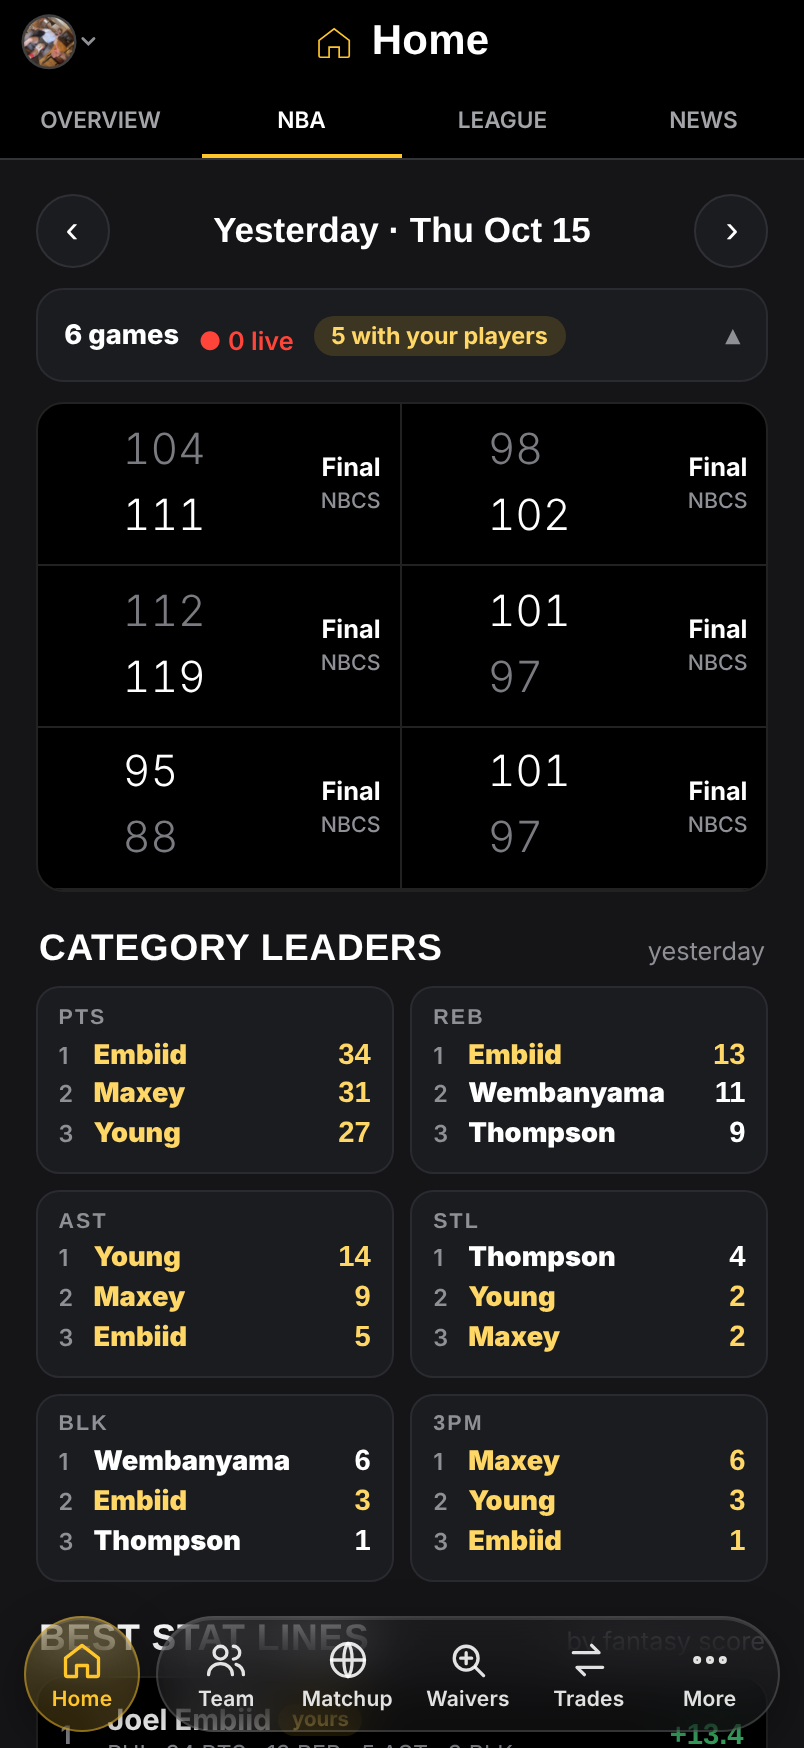
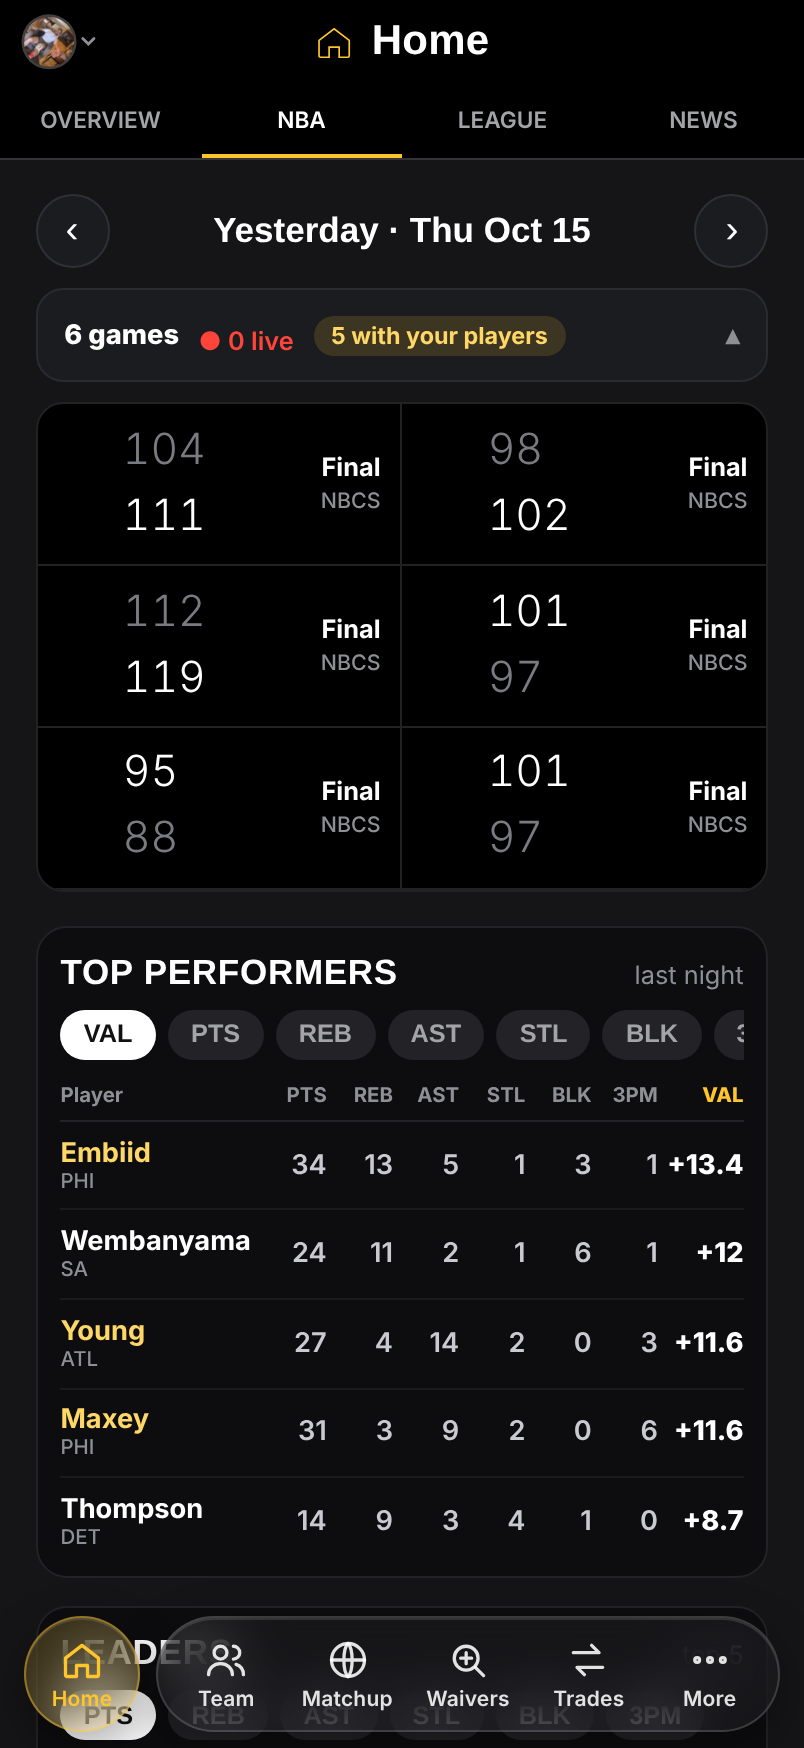
NBA tab: Top performers table (all stats, filter by category) + Leaders top 5 with pills
Claude-Session: https://claude.ai/code/session_01Bze7554zYTgci3mfzKEDgc

diff --git a/classic.html b/classic.html
@@ -1233,6 +1233,25 @@ html body .hdstk.fphd .fphtabs button{font-size:13.5px!important}
 #fpsv .srec{background:rgba(0,0,0,.3);border-radius:14px;padding:9px 11px;margin-bottom:10px}
 #fpsv .sno{color:rgba(255,255,255,.7);font-size:13px}
 .fptoast{position:fixed;left:50%;bottom:120px;transform:translateX(-50%);background:#222;color:#fff;padding:10px 16px;border-radius:999px;font:600 13px system-ui;z-index:9999}
+#fphc .nhcard{background:#0d0d0f;border:1px solid #232327;border-radius:16px;padding:12px 12px 6px;margin-bottom:14px}
+#fphc .nhh{display:flex;align-items:baseline;justify-content:space-between;margin-bottom:8px}#fphc .nhh b{font:800 18px "Roboto Condensed",sans-serif;text-transform:uppercase;letter-spacing:.02em}#fphc .nhh span{color:#8e9096;font-size:13px}
+#fphc .nhpl{display:flex;gap:6px;overflow-x:auto;scrollbar-width:none;margin-bottom:8px}#fphc .nhpl::-webkit-scrollbar{display:none}
+#fphc .nhpl button{flex:none;border:0;border-radius:999px;padding:6px 12px;background:#232327;color:#a3a4a8;font:800 13px "Roboto Condensed",sans-serif;cursor:pointer}
+#fphc .nhpl button.on{background:#fff;color:#111}
+#fphc .nht .hr,#fphc .nht .tr{display:grid;grid-template-columns:minmax(0,1fr) repeat(6,28px) 50px;align-items:center;column-gap:4px;font-variant-numeric:tabular-nums}
+#fphc .nht .hr{font:700 10.5px system-ui;color:#8e9096;padding:4px 0 6px;border-bottom:1px solid #232327}
+#fphc .nht .hr span:not(:first-child),#fphc .nht .tr span:not(:first-child){text-align:right}
+#fphc .nht .tr{padding:8px 0;border-bottom:1px solid #1b1b1e;font:600 14px system-ui;color:#c9cacf}#fphc .nht .tr:last-child{border-bottom:0}
+#fphc .nht .pn{font-weight:700;color:#fff;white-space:nowrap;overflow:hidden;text-overflow:ellipsis}#fphc .nht .pn small{display:block;font:500 10.5px system-ui;color:#8e9096}
+#fphc .nht .tr.me .pn{color:#ffd766}#fphc .nht .tr.op .pn{color:#9fd0ff}
+#fphc .nht span.on{color:#fff;font-weight:800}#fphc .nht .hr span.on{color:#ffc62b}
+#fphc .nht .vl{color:#3fbf6f;font-weight:800}
+#fphc .nhlr{display:flex;align-items:center;gap:10px;padding:9px 0;border-top:1px solid #1b1b1e}
+#fphc .nhlr .k{width:14px;color:#8e9096;font:700 14px system-ui}
+#fphc .nhlr img,#fphc .nhlr i{width:32px;height:32px;border-radius:50%;object-fit:cover;background:#2a2b30;flex:none}
+#fphc .nhlr b{font:700 16px system-ui;flex:1;min-width:0;white-space:nowrap;overflow:hidden;text-overflow:ellipsis}#fphc .nhlr small{color:#8e9096;font-size:12px}
+#fphc .nhlr .v{font:900 20px "Roboto Condensed",sans-serif;min-width:36px;text-align:right}
+#fphc .nhlr.me b{color:#ffd766}#fphc .nhlr.op b{color:#9fd0ff}
 </style>
 <div class="stage">
  <aside class="side"><h1>Fantasy Plus <span>for iPhone</span></h1><p>Design of the iPhone app. Tap around, it all works: the tabs, the players, the trade builder.</p><ul><li><b>Home</b>: score, last night, this week's review, category ranks, waivers. Tap the score for the full game.</li><li><b>Team</b>: roster and player cards</li><li><b>Matchup</b>: ESPN-style category table with our ball logic</li><li><b>More</b>: rankings and settings</li><li><b>Trades</b>: your market and the builder</li></ul><p>Numbers are a snapshot of your Anti-Quemo league (preseason projections). Photos show as initials here; the app uses real headshots.</p><p>On your phone, open this link directly and it fills the screen.</p></aside>
@@ -2154,10 +2173,15 @@ async function scores(box_){const B=box_;clearInterval(timer);
  let all=[];await Promise.all(done.map(async r=>{try{const x=await box(r.id);all.push(...x)}catch(e){}}));if(!document.body.contains(B))return;
  if(!all.length){L.innerHTML='<p class="fhnote">Box scores aren\'t available yet.</p>';return}
  const cats=["PTS","REB","AST","STL","BLK","3PM"],cls=p=>O[p.id]===1?"me":O[p.id]===2?"op":"";
- L.innerHTML=`<div class="fhsec"><h3>Category leaders</h3><span>${DOFF===0?"tonight so far":dname(DOFF).split(" · ")[0].toLowerCase()}</span></div><div class="nhcats">${cats.map(c=>{const t=[...all].sort((a,b)=>b[c]-a[c]).slice(0,3);return `<div class="nhc"><div class="cap">${c}</div>${t.map((p,i)=>`<div class="r ${cls(p)}"><span class="k">${i+1}</span><b>${esc(last(p.n))}</b><span class="v">${p[c]}</span></div>`).join("")}</div>`}).join("")}</div>`;
- const best=[...all].sort((a,b)=>b.fv-a.fv).slice(0,8);
- BB.innerHTML=`<div class="fhsec"><h3>Best stat lines</h3><span>by fantasy score</span></div><div class="nhbl">${best.map((p,i)=>{const parts=[`${p.PTS} PTS`,p.REB>=5?`${p.REB} REB`:"",p.AST>=4?`${p.AST} AST`:"",p.STL>=2?`${p.STL} STL`:"",p.BLK>=2?`${p.BLK} BLK`:"",p["3PM"]>=3?`${p["3PM"]} 3PM`:""].filter(Boolean).join(" · ");const tg=O[p.id]===1?'<span class="tg me">yours</span>':O[p.id]===2?`<span class="tg op">${esc((HDX.D.opp||"opp").split(" ")[0])}</span>`:"";
-  return `<div class="nhb"><span class="k">${i+1}</span>${ph(p.id)?`<img src="${ph(p.id)}" alt="" onerror="this.remove()">`:`<i></i>`}<div class="m"><b>${esc(p.n)} ${tg}</b><small>${esc(p.t)} · ${parts}</small></div><span class="fv">+${p.fv}</span></div>`}).join("")}</div>`}
+ const pills=(cur,attr)=>`<div class="nhpl">${["VAL",...cats].map(c=>`<button ${attr}="${c}" class="${c===cur?"on":""}">${c}</button>`).join("")}</div>`;
+ const key=c=>c==="VAL"?"fv":c;
+ const drawTop=()=>{const c=window.__nhTop||"VAL",k=key(c),T=[...all].sort((a,b)=>b[k]-a[k]||b.fv-a.fv).slice(0,10);
+  BB.innerHTML=`<div class="nhcard"><div class="nhh"><b>Top performers</b><span>${DOFF===0?"tonight":"last night"}</span></div>${pills(c,"data-tp")}<div class="nht"><div class="hr"><span>Player</span>${cats.map(x=>`<span class="${x===c?"on":""}">${x}</span>`).join("")}<span class="${c==="VAL"?"on":""}">VAL</span></div>${T.map(p=>`<div class="tr ${cls(p)}"><span class="pn">${esc(last(p.n))}<small>${esc(p.t)}</small></span>${cats.map(x=>`<span class="${x===c?"on":""}">${p[x]}</span>`).join("")}<span class="vl ${c==="VAL"?"on":""}">+${p.fv}</span></div>`).join("")}</div></div>`;
+  BB.querySelectorAll("[data-tp]").forEach(b=>b.onclick=e=>{e.stopPropagation();window.__nhTop=b.dataset.tp;drawTop()})};
+ const drawLead=()=>{const c=window.__nhLd||"PTS",T=[...all].sort((a,b)=>b[c]-a[c]).slice(0,5);
+  L.innerHTML=`<div class="nhcard"><div class="nhh"><b>Leaders</b><span>top 5</span></div><div class="nhpl">${cats.map(x=>`<button data-ld="${x}" class="${x===c?"on":""}">${x}</button>`).join("")}</div>${T.map((p,i)=>`<div class="nhlr ${cls(p)}"><span class="k">${i+1}</span>${ph(p.id)?`<img src="${ph(p.id)}" alt="" onerror="this.remove()">`:`<i></i>`}<b>${esc(p.n)}</b><small>${esc(p.t)}</small><span class="v">${p[c]}</span></div>`).join("")}</div>`;
+  L.querySelectorAll("[data-ld]").forEach(b=>b.onclick=e=>{e.stopPropagation();window.__nhLd=b.dataset.ld;drawLead()})};
+ B.insertBefore(BB,L);drawTop();drawLead()}
 // ---------- League ----------
 function league(box){const D=HDX.D,st=[...(D.stand||[])].sort((a,b)=>a.place-b.place),pw=[...(D.power||[])].sort((a,b)=>a.place-b.place),od=D.odds||{},sp=D.spots||4;
  box.innerHTML=`<div class="fhsec"><h3>Standings</h3><span>top ${sp} make the playoffs</span></div><div class="fhcard"><div class="fhth"><span>#</span><span>Team</span><span>W-L-T</span><span>GB</span><span>Playoffs</span></div>${st.map((t,i)=>`<div class="fhtrow${t.id===D.my?" me":""}${i===sp-1?" cut":""}"><span>${t.place}</span><span class="tn">${tav(t.name,26)}<b>${esc(t.name)}</b></span><span>${t.w}-${t.l}-${t.t}</span><span>${t.gb||"–"}</span><span class="od">${od[t.id]!=null?od[t.id].odds+"%":"–"}</span></div>`).join("")}</div>

diff --git a/index.html b/index.html
@@ -1285,6 +1285,25 @@ html body .hdstk.fphd .fphtabs button{font-size:13.5px!important}
 #fpsv .srec{background:rgba(0,0,0,.3);border-radius:14px;padding:9px 11px;margin-bottom:10px}
 #fpsv .sno{color:rgba(255,255,255,.7);font-size:13px}
 .fptoast{position:fixed;left:50%;bottom:120px;transform:translateX(-50%);background:#222;color:#fff;padding:10px 16px;border-radius:999px;font:600 13px system-ui;z-index:9999}
+#fphc .nhcard{background:#0d0d0f;border:1px solid #232327;border-radius:16px;padding:12px 12px 6px;margin-bottom:14px}
+#fphc .nhh{display:flex;align-items:baseline;justify-content:space-between;margin-bottom:8px}#fphc .nhh b{font:800 18px "Roboto Condensed",sans-serif;text-transform:uppercase;letter-spacing:.02em}#fphc .nhh span{color:#8e9096;font-size:13px}
+#fphc .nhpl{display:flex;gap:6px;overflow-x:auto;scrollbar-width:none;margin-bottom:8px}#fphc .nhpl::-webkit-scrollbar{display:none}
+#fphc .nhpl button{flex:none;border:0;border-radius:999px;padding:6px 12px;background:#232327;color:#a3a4a8;font:800 13px "Roboto Condensed",sans-serif;cursor:pointer}
+#fphc .nhpl button.on{background:#fff;color:#111}
+#fphc .nht .hr,#fphc .nht .tr{display:grid;grid-template-columns:minmax(0,1fr) repeat(6,28px) 50px;align-items:center;column-gap:4px;font-variant-numeric:tabular-nums}
+#fphc .nht .hr{font:700 10.5px system-ui;color:#8e9096;padding:4px 0 6px;border-bottom:1px solid #232327}
+#fphc .nht .hr span:not(:first-child),#fphc .nht .tr span:not(:first-child){text-align:right}
+#fphc .nht .tr{padding:8px 0;border-bottom:1px solid #1b1b1e;font:600 14px system-ui;color:#c9cacf}#fphc .nht .tr:last-child{border-bottom:0}
+#fphc .nht .pn{font-weight:700;color:#fff;white-space:nowrap;overflow:hidden;text-overflow:ellipsis}#fphc .nht .pn small{display:block;font:500 10.5px system-ui;color:#8e9096}
+#fphc .nht .tr.me .pn{color:#ffd766}#fphc .nht .tr.op .pn{color:#9fd0ff}
+#fphc .nht span.on{color:#fff;font-weight:800}#fphc .nht .hr span.on{color:#ffc62b}
+#fphc .nht .vl{color:#3fbf6f;font-weight:800}
+#fphc .nhlr{display:flex;align-items:center;gap:10px;padding:9px 0;border-top:1px solid #1b1b1e}
+#fphc .nhlr .k{width:14px;color:#8e9096;font:700 14px system-ui}
+#fphc .nhlr img,#fphc .nhlr i{width:32px;height:32px;border-radius:50%;object-fit:cover;background:#2a2b30;flex:none}
+#fphc .nhlr b{font:700 16px system-ui;flex:1;min-width:0;white-space:nowrap;overflow:hidden;text-overflow:ellipsis}#fphc .nhlr small{color:#8e9096;font-size:12px}
+#fphc .nhlr .v{font:900 20px "Roboto Condensed",sans-serif;min-width:36px;text-align:right}
+#fphc .nhlr.me b{color:#ffd766}#fphc .nhlr.op b{color:#9fd0ff}
 </style>
 <div class="stage">
  <aside class="side"><h1>Fantasy Plus <span>for iPhone</span></h1><p>Design of the iPhone app. Tap around, it all works: the tabs, the players, the trade builder.</p><ul><li><b>Home</b>: score, last night, this week's review, category ranks, waivers. Tap the score for the full game.</li><li><b>Team</b>: roster and player cards</li><li><b>Matchup</b>: ESPN-style category table with our ball logic</li><li><b>More</b>: rankings and settings</li><li><b>Trades</b>: your market and the builder</li></ul><p>Numbers are a snapshot of your Anti-Quemo league (preseason projections). Photos show as initials here; the app uses real headshots.</p><p>On your phone, open this link directly and it fills the screen.</p></aside>
@@ -2206,10 +2225,15 @@ async function scores(box_){const B=box_;clearInterval(timer);
  let all=[];await Promise.all(done.map(async r=>{try{const x=await box(r.id);all.push(...x)}catch(e){}}));if(!document.body.contains(B))return;
  if(!all.length){L.innerHTML='<p class="fhnote">Box scores aren\'t available yet.</p>';return}
  const cats=["PTS","REB","AST","STL","BLK","3PM"],cls=p=>O[p.id]===1?"me":O[p.id]===2?"op":"";
- L.innerHTML=`<div class="fhsec"><h3>Category leaders</h3><span>${DOFF===0?"tonight so far":dname(DOFF).split(" · ")[0].toLowerCase()}</span></div><div class="nhcats">${cats.map(c=>{const t=[...all].sort((a,b)=>b[c]-a[c]).slice(0,3);return `<div class="nhc"><div class="cap">${c}</div>${t.map((p,i)=>`<div class="r ${cls(p)}"><span class="k">${i+1}</span><b>${esc(last(p.n))}</b><span class="v">${p[c]}</span></div>`).join("")}</div>`}).join("")}</div>`;
- const best=[...all].sort((a,b)=>b.fv-a.fv).slice(0,8);
- BB.innerHTML=`<div class="fhsec"><h3>Best stat lines</h3><span>by fantasy score</span></div><div class="nhbl">${best.map((p,i)=>{const parts=[`${p.PTS} PTS`,p.REB>=5?`${p.REB} REB`:"",p.AST>=4?`${p.AST} AST`:"",p.STL>=2?`${p.STL} STL`:"",p.BLK>=2?`${p.BLK} BLK`:"",p["3PM"]>=3?`${p["3PM"]} 3PM`:""].filter(Boolean).join(" · ");const tg=O[p.id]===1?'<span class="tg me">yours</span>':O[p.id]===2?`<span class="tg op">${esc((HDX.D.opp||"opp").split(" ")[0])}</span>`:"";
-  return `<div class="nhb"><span class="k">${i+1}</span>${ph(p.id)?`<img src="${ph(p.id)}" alt="" onerror="this.remove()">`:`<i></i>`}<div class="m"><b>${esc(p.n)} ${tg}</b><small>${esc(p.t)} · ${parts}</small></div><span class="fv">+${p.fv}</span></div>`}).join("")}</div>`}
+ const pills=(cur,attr)=>`<div class="nhpl">${["VAL",...cats].map(c=>`<button ${attr}="${c}" class="${c===cur?"on":""}">${c}</button>`).join("")}</div>`;
+ const key=c=>c==="VAL"?"fv":c;
+ const drawTop=()=>{const c=window.__nhTop||"VAL",k=key(c),T=[...all].sort((a,b)=>b[k]-a[k]||b.fv-a.fv).slice(0,10);
+  BB.innerHTML=`<div class="nhcard"><div class="nhh"><b>Top performers</b><span>${DOFF===0?"tonight":"last night"}</span></div>${pills(c,"data-tp")}<div class="nht"><div class="hr"><span>Player</span>${cats.map(x=>`<span class="${x===c?"on":""}">${x}</span>`).join("")}<span class="${c==="VAL"?"on":""}">VAL</span></div>${T.map(p=>`<div class="tr ${cls(p)}"><span class="pn">${esc(last(p.n))}<small>${esc(p.t)}</small></span>${cats.map(x=>`<span class="${x===c?"on":""}">${p[x]}</span>`).join("")}<span class="vl ${c==="VAL"?"on":""}">+${p.fv}</span></div>`).join("")}</div></div>`;
+  BB.querySelectorAll("[data-tp]").forEach(b=>b.onclick=e=>{e.stopPropagation();window.__nhTop=b.dataset.tp;drawTop()})};
+ const drawLead=()=>{const c=window.__nhLd||"PTS",T=[...all].sort((a,b)=>b[c]-a[c]).slice(0,5);
+  L.innerHTML=`<div class="nhcard"><div class="nhh"><b>Leaders</b><span>top 5</span></div><div class="nhpl">${cats.map(x=>`<button data-ld="${x}" class="${x===c?"on":""}">${x}</button>`).join("")}</div>${T.map((p,i)=>`<div class="nhlr ${cls(p)}"><span class="k">${i+1}</span>${ph(p.id)?`<img src="${ph(p.id)}" alt="" onerror="this.remove()">`:`<i></i>`}<b>${esc(p.n)}</b><small>${esc(p.t)}</small><span class="v">${p[c]}</span></div>`).join("")}</div>`;
+  L.querySelectorAll("[data-ld]").forEach(b=>b.onclick=e=>{e.stopPropagation();window.__nhLd=b.dataset.ld;drawLead()})};
+ B.insertBefore(BB,L);drawTop();drawLead()}
 // ---------- League ----------
 function league(box){const D=HDX.D,st=[...(D.stand||[])].sort((a,b)=>a.place-b.place),pw=[...(D.power||[])].sort((a,b)=>a.place-b.place),od=D.odds||{},sp=D.spots||4;
  box.innerHTML=`<div class="fhsec"><h3>Standings</h3><span>top ${sp} make the playoffs</span></div><div class="fhcard"><div class="fhth"><span>#</span><span>Team</span><span>W-L-T</span><span>GB</span><span>Playoffs</span></div>${st.map((t,i)=>`<div class="fhtrow${t.id===D.my?" me":""}${i===sp-1?" cut":""}"><span>${t.place}</span><span class="tn">${tav(t.name,26)}<b>${esc(t.name)}</b></span><span>${t.w}-${t.l}-${t.t}</span><span>${t.gb||"–"}</span><span class="od">${od[t.id]!=null?od[t.id].odds+"%":"–"}</span></div>`).join("")}</div>
